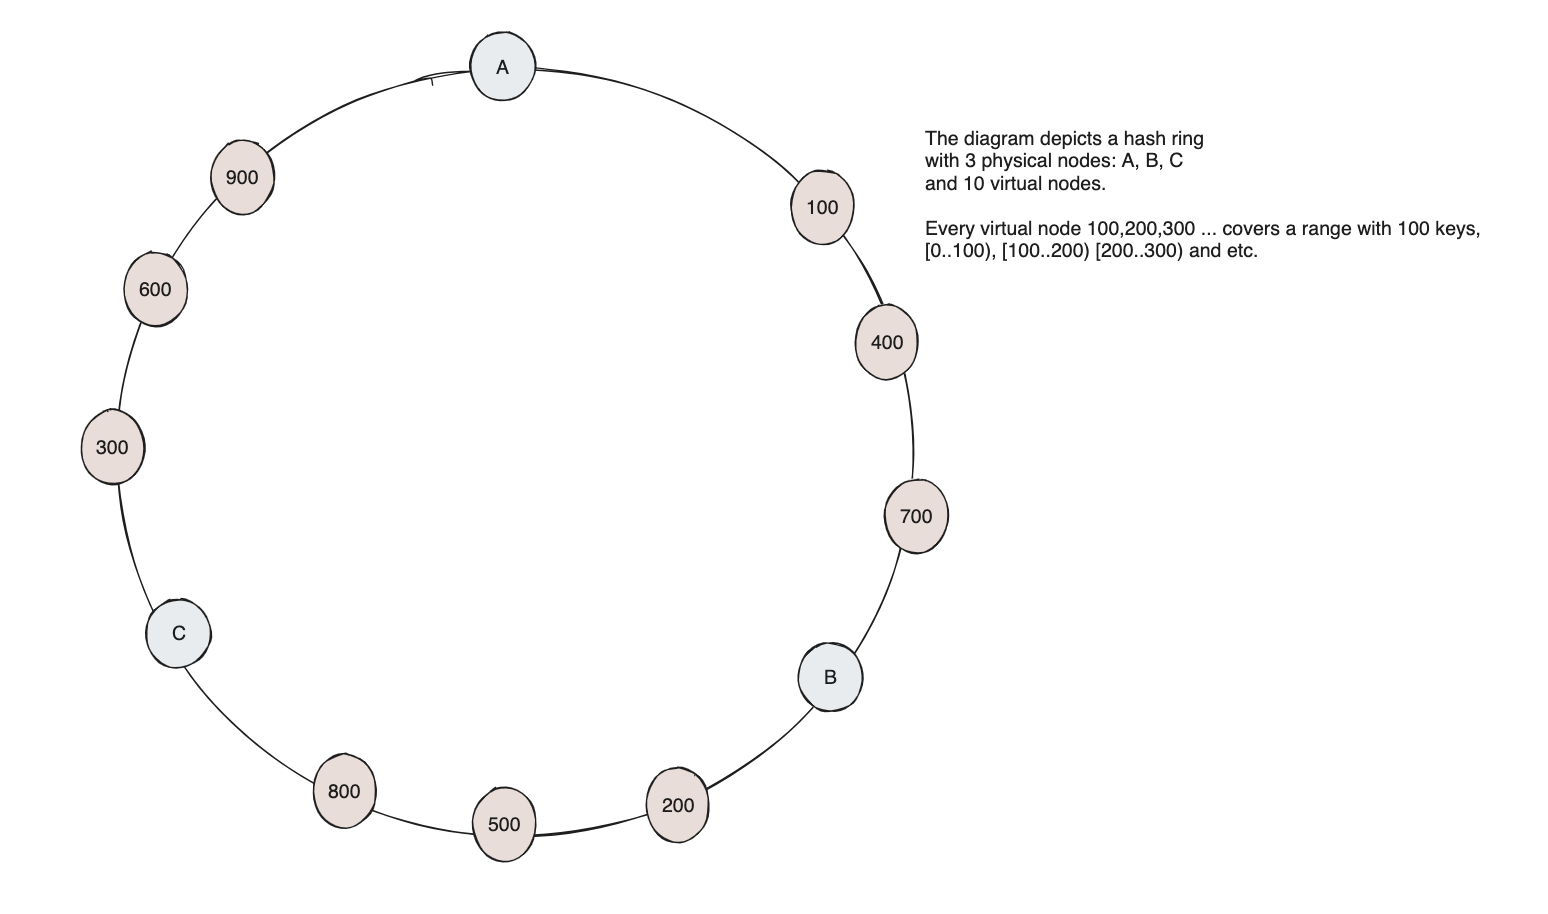
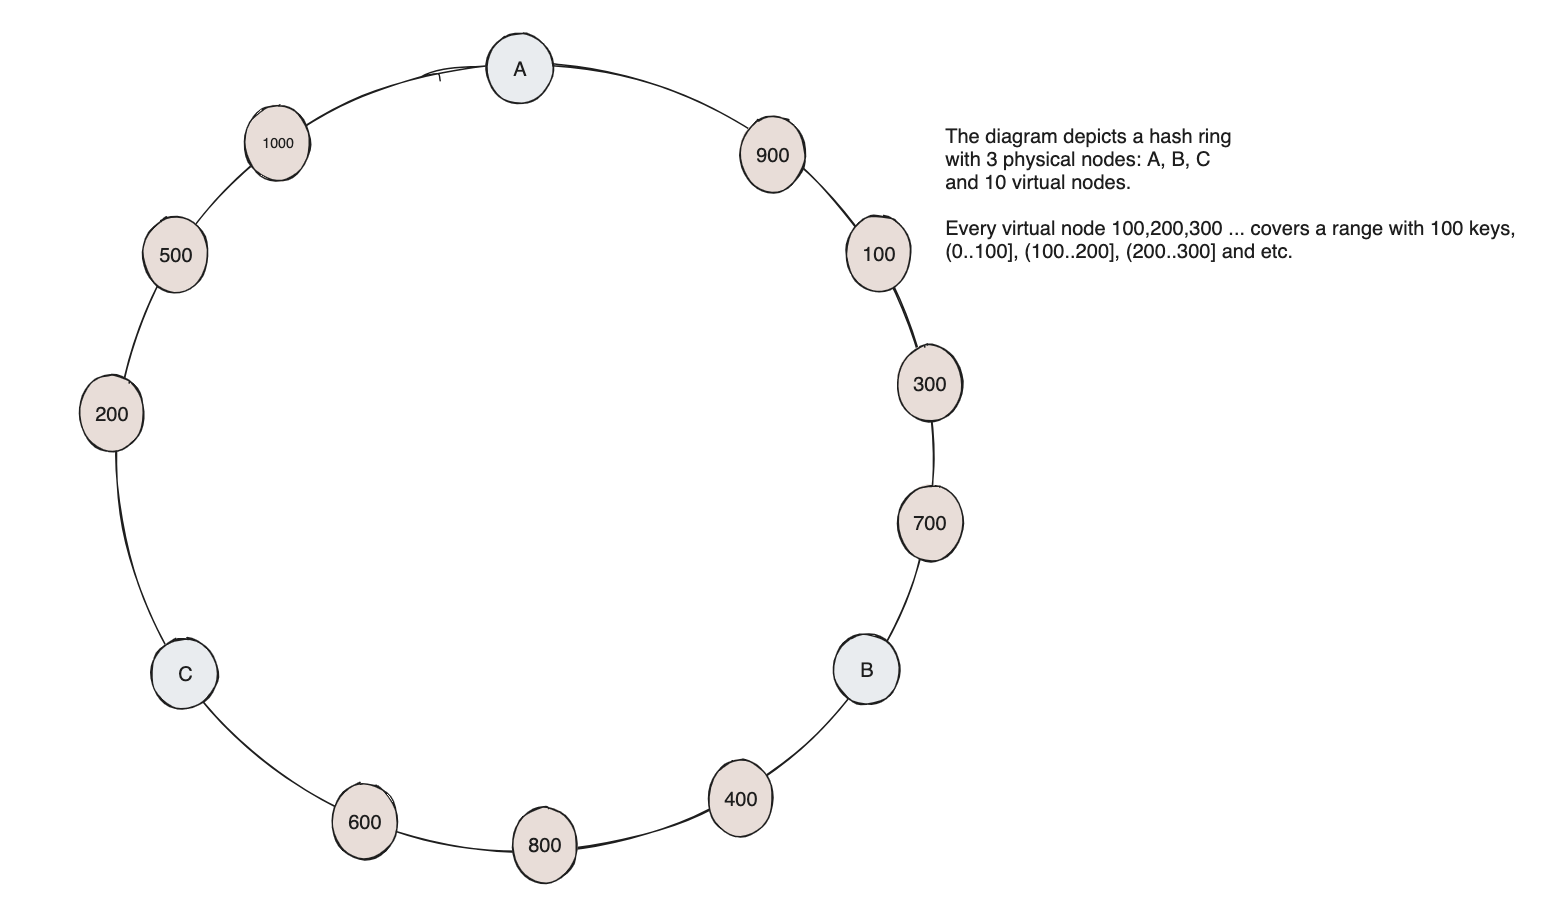
Updated README and diagram.

diff --git a/README.md b/README.md
@@ -1,1 +1,7 @@
 # consistent-hashing
+
+key takeaways:
+- leveraging consistent hashing decreases the amount of data to shift/move in case a db node removed/added
+- adding virtual nodes into hashing ring enhances data distribution
+- the efficient way to representing a hashing ring is a binary tree
+- when selecting by datetime range, a hash key should be calculated for every time period
